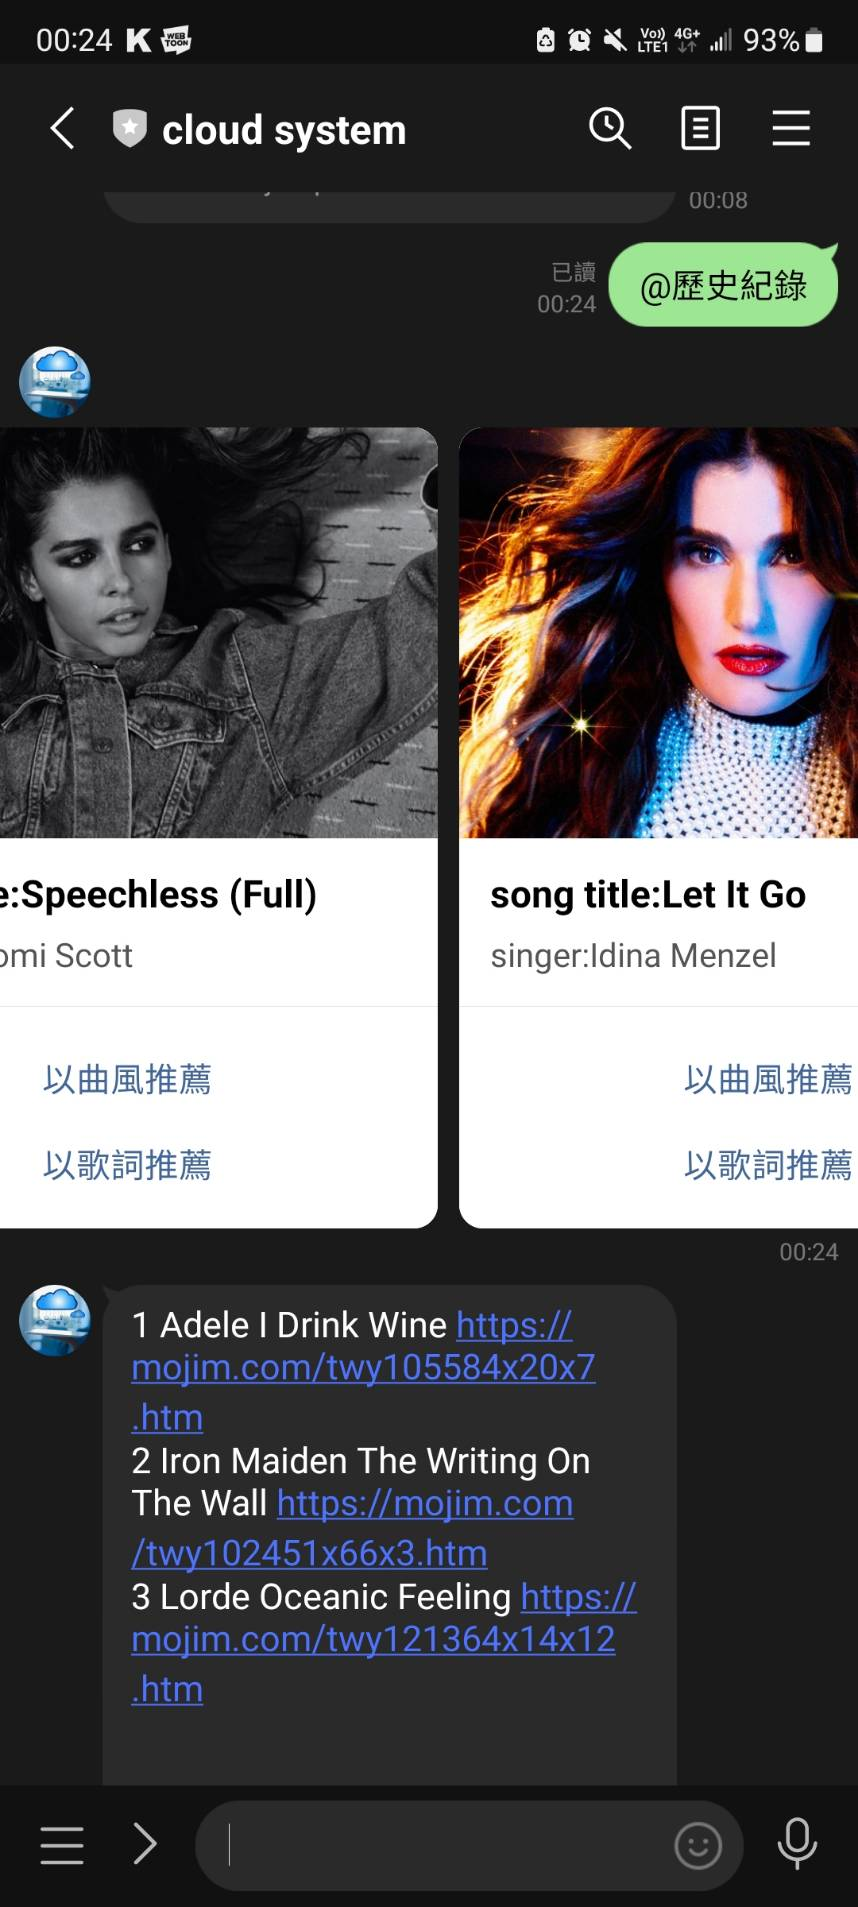
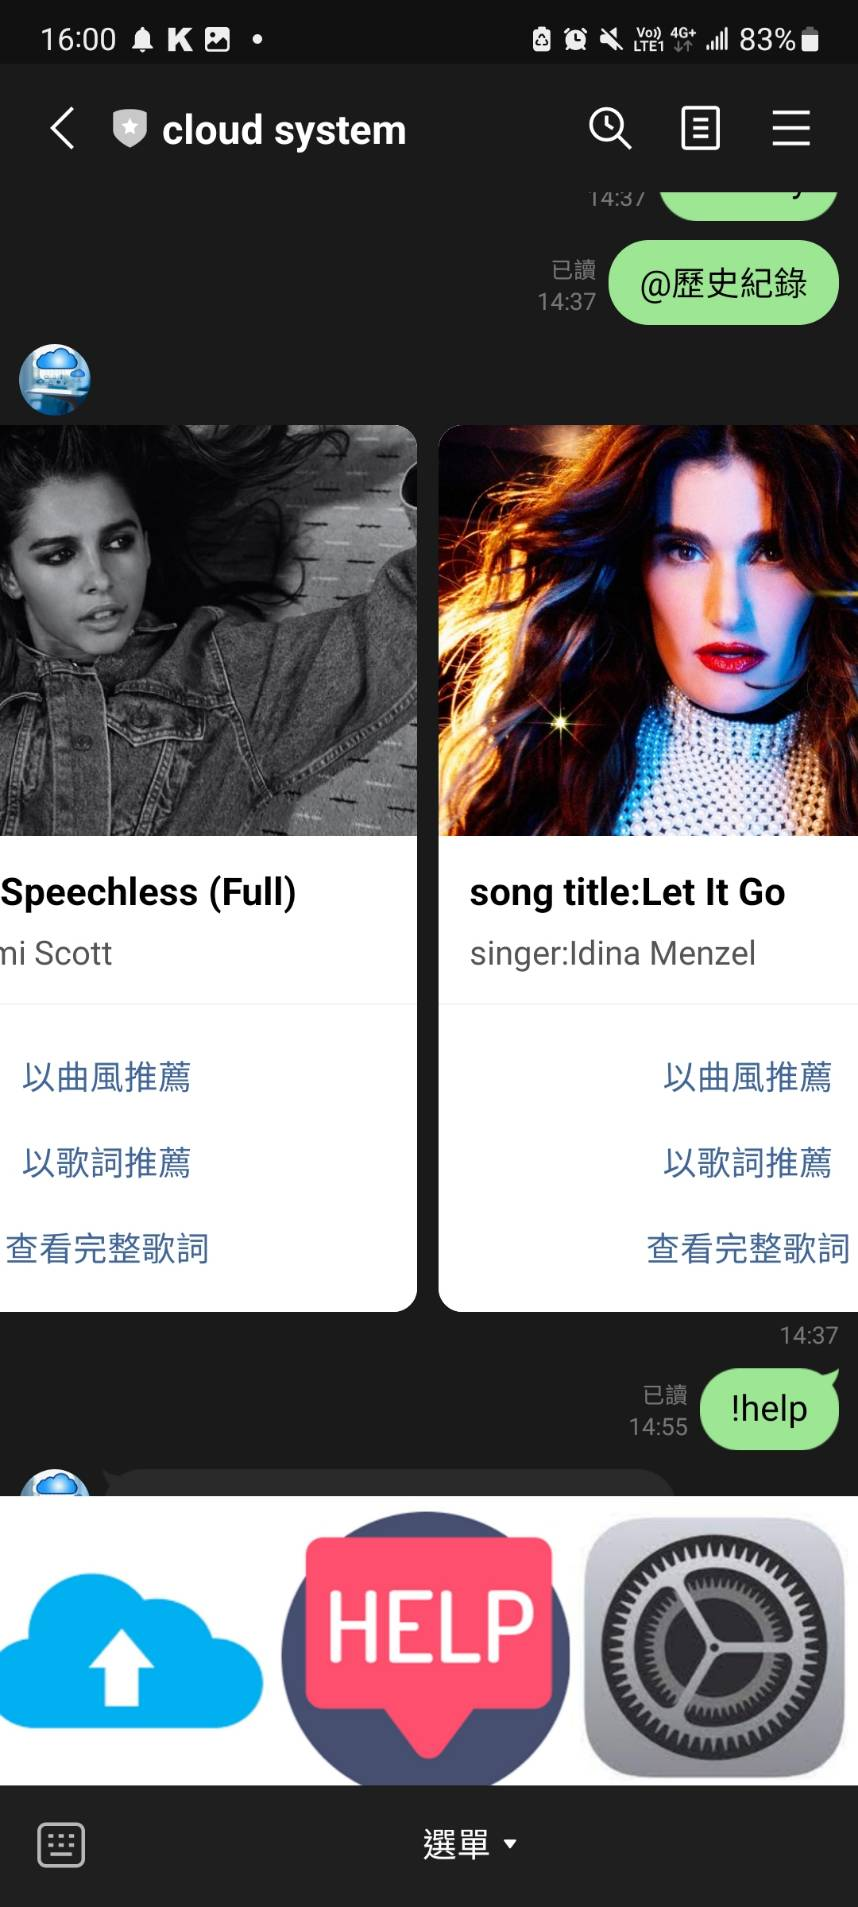
Update README.md

diff --git a/musiclinebot.py b/musiclinebot.py
@@ -47,7 +47,7 @@ ALLOWED_EXTENSIONS = {'mp3','wav'}
 # TODO: Change your key
 line_bot_api = LineBotApi('你的 CHANNEL_ACCESS_TOKEN')
 handler = WebhookHandler('你的 CHANNEL_SECRET')
-
+ngrok_link='你的對外IP'
 app.secret_key =  b'_5#y2L"F4Q8z\n\xec]/' 
 app.config['UPLOAD_FOLDER'] = UPLOAD_FOLDER          # 設置儲存上傳檔的資料夾 
 app.config['MAX_CONTENT_LENGTH'] = 16 * 1024  * 1024 * 1024 # 上傳檔最大16GB
@@ -108,7 +108,7 @@ def history(userID):
     lyrics=[]
     picUrl=[]
     url=''
-    
+    output_path=[]
     path='share\\'+userID+'\\'
     obj = os.scandir(path)
     for entry in obj :
@@ -118,6 +118,7 @@ def history(userID):
         info = path + entry.name + '\\output.txt'
         print(info)
         if(os.path.isfile(info)):
+            output_path.append(info)
             with open(info, "r") as file:
                 for line in file:
                     if(cnt==0):
@@ -159,7 +160,7 @@ def history(userID):
         file.close
        
     # print(song,singer,picUrl,url)
-    return singer,song,melody,lyrics,picUrl     
+    return singer,song,melody,lyrics,picUrl,output_path     
 def detect_song(path):
     # path = 'share'
     obj = os.scandir(path)
@@ -236,14 +237,16 @@ def handle_message(event):
     song=[]
     melody=[]
     lyrics=[]
-    postback_data = event.message.text
+    # postback_data = event.message.text
     picUrl=[]
-    
+    output_path=[]
     if mtext == '@上傳檔案':
         try:
             # TODO: here
             message = TextSendMessage(  
-                text = f'https://dcbc-123-195-0-149.ngrok-free.app/user.html/{userID}'
+                # text = f'https://ab2c-123-195-0-149.ngrok-free.app/user.html/{userID}'
+                text=f'{ngrok_link}/user.html/{userID}'
+                
             )
             line_bot_api.reply_message(event.reply_token,message)
         except:
@@ -297,8 +300,7 @@ def handle_message(event):
         try:
             # TODO: here
             message = TextSendMessage(  
-                text = "我們提供以下功能\n 1.@上傳檔案(也可以點擊左下角icon)將會回傳一個link給你請點擊此link到該網站上傳mp3檔案 \
-                        上船完成後系統會幫你辨識歌曲此外也可以根據曲風或歌詞推薦歌給你\n2.@歷史紀錄(也可以點擊右下方icon)我們將會顯示你過往上傳的mp3並讓你可以選擇"
+                text = "我們提供以下功能\n1.@上傳檔案(也可以點擊左下角icon)將會回傳一個link給你請點擊此link到該網站上傳mp3檔案上傳完成後系統會幫你辨識歌曲此外也可以根據曲風或歌詞推薦歌給你\n2.@歷史紀錄(也可以點擊右下方icon)我們將會顯示你過往上傳的mp3並讓你可以選擇\n3.@以曲風推薦(點擊card button)會推薦曲風相似的歌曲\n4.@以歌詞推薦(點擊card button)會推薦歌詞相似的歌曲\n5.提供完整歌詞"
             )
             line_bot_api.reply_message(event.reply_token,message)
         except:
@@ -316,7 +318,7 @@ def handle_message(event):
             line_bot_api.reply_message(event.reply_token,TextSendMessage(text='發生錯誤！'))
 
     if mtext == '@歷史紀錄':
-            singer, song, melody, lyrics, picUrl = history(userID)
+            singer, song, melody, lyrics, picUrl, output_path = history(userID)
             columns = []
             print(singer,song,melody,lyrics,picUrl)
             for i in range(len(song)):
@@ -332,6 +334,10 @@ def handle_message(event):
                         PostbackTemplateAction(
                             label='以歌詞推薦',
                             data=lyrics[i]
+                        ),
+                        PostbackTemplateAction(
+                            label='查看完整歌詞',
+                            data=f'!歌詞{output_path[i]}'
                         ),
                          
                     ]

diff --git a/README.md b/README.md
@@ -4,12 +4,14 @@
 git clone https://github.com/samwang1228/music-line-bot.git
 cd music-line-bot
 pip install -r requirements.txt
+python -u musiclinebot.py
 ```
-## 修改API KEY
+## 修改API KEY以及link
 ```python
-# linebotFunc1.py
+# musiclinebot
 line_bot_api = LineBotApi('你的 CHANNEL_ACCESS_TOKEN')
 handler = WebhookHandler('你的 CHANNEL_SECRET')
+ngrok_link='你的對外IP'
 ```
 ## 功能解釋
 我們提供以下功能
@@ -29,7 +31,6 @@ handler = WebhookHandler('你的 CHANNEL_SECRET')
   </tr>
 </table>
 
- 
 
 ### 歷史紀錄
 <table>
@@ -59,3 +60,6 @@ handler = WebhookHandler('你的 CHANNEL_SECRET')
     <img src="img/560284.jpg" alt="圖片2描述" style="max-width: 100%; max-height: 100%;">
   </tr>
 </table>
+
+### video
+[![demo](https://i.ytimg.com/vi/_cyTOigu2A0/hqdefault.jpg)](https://www.youtube.com/watch?v=_cyTOigu2A0&ab_channel=%E5%BC%B5%E7%9D%BF "demo")
